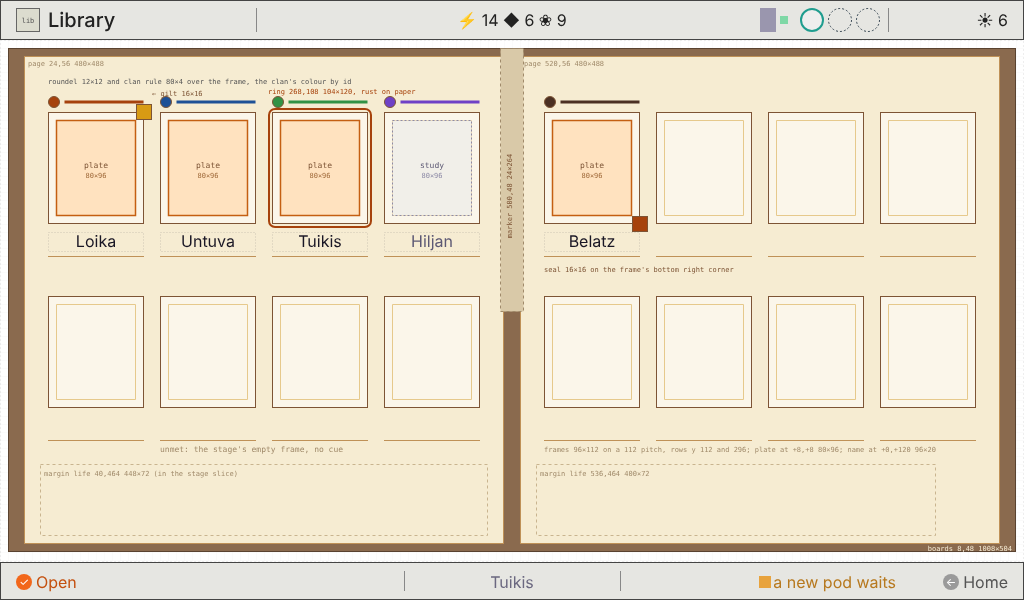
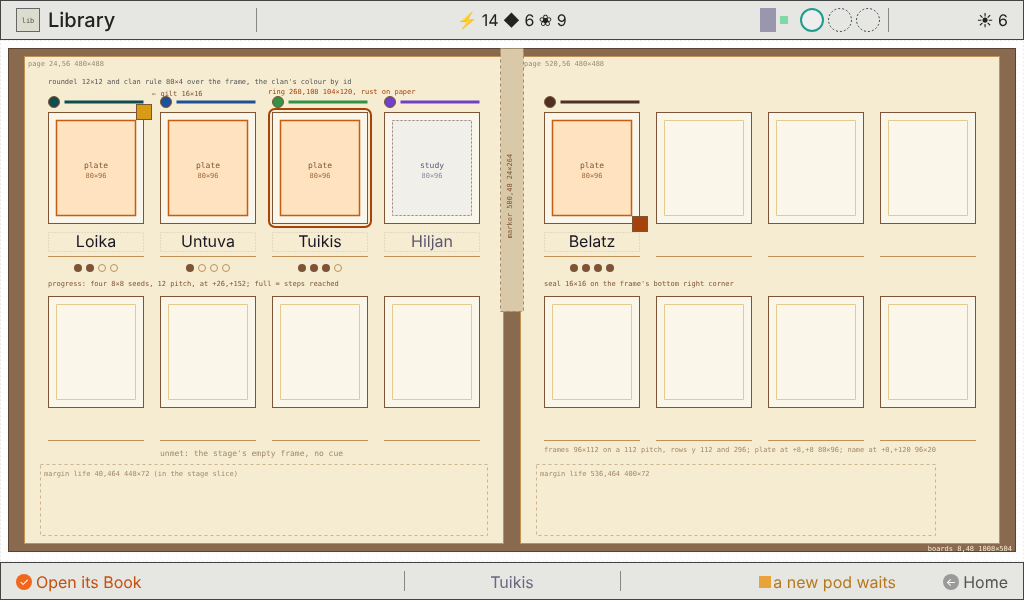
Library spread: C01 in tealD, the guide progress seeds, the signed words
C01's clan colour is tealD (the art director): no clan colour is the
ring's rust any more, and the clash note goes. Each found frame shows its
guide progress as four seeds under its caption, min(4, floor(4 x found /
(found + unseen)) + 1) of them full, at frame + (26, 152), 44x8; met and
unmet show none; complete keeps the seal. The copywriter's words: Open
its Book, {species}, only seen, Its Book needs its pod identified,
Nothing is known here yet. intents/library.mjs's change for met frames is
recorded in buildChanges. Wireframes 20 to 20b redrawn; metrics vectors
regenerated.

diff --git a/design/style-guide/station-layouts.md b/design/style-guide/station-layouts.md
@@ -2076,7 +2076,7 @@ The Library's whole, its overview level ([The screen map](#the-screen-map)): Hom
 
 <img src="station-layouts/20-library-spread.png" width="1024" alt="The Library spread: sixteen frames, four found, one met, eleven empty, the ring on Tuikis">
 
-*20. The spread: Loika found and portrayed (the gilt corner), Untuva and Tuikis found, Hiljan met (the study, the name in pencil grey), Belatz found with its guide complete (the seal), eleven empty frames; the ring on Tuikis, `✓ Open`. 1×, measured ([SVG](station-layouts/20-library-spread.svg)).*
+*20. The spread: Loika found and portrayed (the gilt corner, two seeds of four), Untuva found (one seed), Tuikis found (three seeds), Hiljan met (the study, the name in pencil grey, no seeds), Belatz found with its guide complete (four seeds and the seal), eleven empty frames; each known frame's clan rule and roundel in its clan's colour; the ring on Tuikis, `✓ Open its Book`. 1×, measured ([SVG](station-layouts/20-library-spread.svg)).*
 
 <img src="station-layouts/20a-library-spread-empty.png" width="1024" alt="The Library spread with the journal empty: sixteen empty frames, the ring on the first">
 
@@ -2102,6 +2102,7 @@ The spread shows the whole collection at a glance, as plates in the field journa
 | **Name** on the caption rule, 16 px | Found in `ink`, met in `stone` (pencil grey) |
 | **Clan rule** (a flat 4 px ink line) and the clan's **roundel** beside it, over a found or met frame | The clan, by the art director's colour for its id (C01 to C16), and by its roundel, so colour never carries the clan alone |
 | **Gilt corner** on a found frame | A mibi of this species sat for the Book's face |
+| **Progress**, four seeds under a found frame's caption | How much of the species' guide is found, in four coarse steps, as a picture, never a figure |
 | **Seal** on a found frame | Every look of the species found |
 
 **Not drawn:** a count or "1 of 2"; diagonal hatching for met (the study says it); a cue on an unmet frame; a clan's name; rules thicker than 1 px but the clan rule; the old "plate lifts and becomes the Book's face" (it would enlarge an 80×96 plate, [Never upscaled](#never-upscaled)).
@@ -2116,7 +2117,7 @@ The spread shows the whole collection at a glance, as plates in the field journa
 2. **Their names.**
 3. **The met studies** and their pencil names.
 4. **The empty frames**, a quiet grid.
-5. **The gilt corners and the seals**, small marks at the frames' corners.
+5. **The gilt corners, the progress seeds and the seals**, small marks at the frames' corners and under their captions.
 6. **The margins.**
 
 **At the edges:** the cloth marker over the gutter; the margin life under the second rows; the page-turn corner at the bottom right, its own sprite, only when a second spread exists (more than sixteen species), so never in slot L.
@@ -2150,12 +2151,13 @@ The volume fills the stage. Each page holds a 4 × 2 grid of frames, 96×112 on 
 | Clan rule | frame + (16, −12), 80×4 | rect in the clan's colour | y 100 and 284, 4 px after the roundel; found and met only |
 | Name | frame + (0, 120), 96×20 | text, 16 px, centred | y 232 and 416, on the caption rule at y 256 and 440 (the slice's). Widest today: Untuva, 53 px |
 | Gilt corner | frame + (88, −8), 16×16 | sprite `spread-gilt-corner-16x16` | Centred on the frame's top right corner; found and portrayed |
+| Progress | frame + (26, 152), 44×8 | four sprites, `spread-progress-full-8x8` or `spread-progress-empty-8x8`, 8×8 on a 12 pitch | y 264 and 448, centred on the frame, 8 px under the caption rule, 8 px over the next row's roundel and the margin life; found only |
 | Seal | frame + (88, 104), 16×16 | sprite `spread-seal-16x16` | Centred on the frame's bottom right corner; found and complete |
 | Focus | frame outset 4, radius 6: 104×120 | the ring | `rust` on paper; nothing lifts |
 | Page-turn corner | 968, 512, 24, 24 | sprite `book-corner-turn-24x24`, part of `spreadPage` | Its own region, never in the stage slice; only with a second spread |
-| Message plate | centred on x 512, bottom at y 550 | the frame's | 286×36 for "Nothing is known of this frame yet" |
+| Message plate | centred on x 512, bottom at y 550 | the frame's | 225×36 for "Nothing is known here yet" (193 px of text and 2 × 16 padding); 271×36 for "Its Book needs its pod identified" (239 px) |
 
-`spreadPage` is a composition, not a word: a `list` by `listPitch` whose items are the frame's parts above (three sprites, one rect, one text), each drawn only when its status gives it, plus the page-turn corner. The clan's colour comes from the frame's own clan id (`taxonomy.clan`) through the art director's table, `library.json` `spread.clanColours`; never from a pod pigment, which clans share. C01's colour is `rust`, the ring's colour on paper: reported to the art director, not changed here.
+`spreadPage` is a composition, not a word: a `list` by `listPitch` whose items are the frame's parts above (three sprites, four seed sprites, one rect, one text), each drawn only when its status gives it, plus the page-turn corner. The clan's colour comes from the frame's own clan id (`taxonomy.clan`) through the art director's table, `library.json` `spread.clanColours`; never from a pod pigment, which clans share. No clan colour is the ring's `rust` (C01 is `tealD`).
 
 ### 6. Interactions
 
@@ -2164,9 +2166,9 @@ The volume fills the stage. Each page holds a 4 × 2 grid of frames, 96×112 on 
 | Arrive | From Home's Library module or the Library key, the ring on the frame it was last on; a fresh world, on the first frame. From the Book's ←, the ring on that species |
 | ◀ ▶ | Along a row, across the gutter to the other page's same row; the outer edges stop, never a wrap |
 | ▲ ▼ | Between the page's two rows; the edges stop |
-| ✓ on a found frame | `✓ Open`, the context the species' name: a cut to its Book's face spread ("not built yet" until slot 8, with ← Library). The plate lifting into the Book's face is withdrawn: it would enlarge an 80×96 plate |
-| ✓ on a met frame | No ✓ cap; the context names it met; a press shows the met message plate and nothing opens |
-| ✓ on an unmet frame | No ✓ cap; the context "an empty frame"; a press shows the message plate "Nothing is known of this frame yet" and nothing opens |
+| ✓ on a found frame | `✓ Open its Book`, the context the species' name: a cut to its Book's face spread ("not built yet" until slot 8, with ← Library). The plate lifting into the Book's face is withdrawn: it would enlarge an 80×96 plate |
+| ✓ on a met frame | No ✓ cap; the context "{species}, only seen"; a press shows the message plate "Its Book needs its pod identified" and nothing opens |
+| ✓ on an unmet frame | No ✓ cap; the context "an empty frame"; a press shows the message plate "Nothing is known here yet" and nothing opens |
 | The notice | The frame's notice, as on every screen |
 | ← | Home, the ring on the Library module |
 
@@ -2174,23 +2176,23 @@ The volume fills the stage. Each page holds a 4 × 2 grid of frames, 96×112 on 
 
 **Events:** none of its own (`spread.events` is empty). ✓ on a found frame is a cut to the Book (`spread.keys.confirm`); ← from the Book is a cut back with the ring on that species (`spread.keys.library`); the screen change is the host's, as everywhere.
 
-**Bound to the rules:** the frames are `spread(st, ids)` over `frameIds()`, sixteen to a spread; the status is `speciesStatus`; the gilt corner is any delivered portrait of a mibi of the species, released or not (`book(st, id).faceChoices` not empty), whether or not it was made the face; the seal is `fieldGuide(st, id).complete`; the ring's frame is the Library's UI state (`ui.lib.i`, `intents/library.mjs`). Nothing is new state.
+**Bound to the rules:** the frames are `spread(st, ids)` over `frameIds()`, sixteen to a spread; the status is `speciesStatus`; the gilt corner is any delivered portrait of a mibi of the species, released or not (`book(st, id).faceChoices` not empty), whether or not it was made the face; the seal is `fieldGuide(st, id).complete`; the progress is `min(4, floor(4 × found / (found + unseen)) + 1)` of `fieldGuide(st, id)`: under a quarter one seed, then two, three, and four from three quarters (complete shows four and the seal); the item's props are `{ id, status, name, clan, portrayed, complete, progress }`; the ring's frame is the Library's UI state (`ui.lib.i`, `intents/library.mjs`). Nothing is new state.
 
 Where the build changes what the sandbox reads today (`frame.json` `navigation.screens.library` gains its states and spec) is listed in `library.json` `spread.buildChanges`, and lands with slot 5's build.
 
 ### Words on the spread
 
-The copywriter's slots (`spread.strings`); today's words come from this section's earlier version and from `intents/library.mjs`; the two met slots are stand-ins until the copywriter words them.
+The copywriter's slots (`spread.strings`), signed by the copywriter.
 
 | Slot | Rule | Today |
 | --- | --- | --- |
 | Title | One word | "Library" |
-| Action on a found frame | A verb phrase, four words or fewer | "Open" |
+| Action on a found frame | A verb phrase, four words or fewer | "Open its Book" |
 | Context, found | Six words or fewer, no digits | "{species}" |
-| Context, met | Six words or fewer, no digits; tells met from found in words | "{species}, met" (stand-in) |
+| Context, met | Six words or fewer, no digits; tells met from found in words | "{species}, only seen" (the widest, "Untuva, only seen", 132 px) |
 | Context, unmet | Six words or fewer, no digits | "an empty frame" |
-| Plate on a met frame | One sentence, at most 640 px | "Not found yet, only met" (stand-in) |
-| Plate on an unmet frame | One sentence | "Nothing is known of this frame yet" |
+| Plate on a met frame | One sentence, at most 608 px of text | "Its Book needs its pod identified" |
+| Plate on an unmet frame | One sentence | "Nothing is known here yet" |
 | Way back | One word | "Home" |
 
 ### Masters for the spread
@@ -2204,13 +2206,13 @@ Placed 1:1 at these sizes, never scaled or recoloured; the art director signs th
 | `spread-study-<SNN>-80x96` | 80×96 | Sixteen: the met pencil study | The index pass in `stone` line on `paper` |
 | `spread-gilt-corner-16x16` | 16×16 | The portrayed species' gilt corner | A `gold` L, 4 px |
 | `clan-roundel-<Cnn>-12x12` | 12×12 | Sixteen: the clan's roundel beside its rule, in the clan's colour | A disc in the clan's colour, edged `bark` |
+| `spread-progress-full-8x8`, `spread-progress-empty-8x8` | 8×8 | A step of the guide reached (a pressed seed, inked) and not yet (the seed in outline); the form is the UI designer's, the art director confirms it | An 8×8 `bark` disc; an 8×8 `clay` outline |
 | `spread-seal-16x16` | 16×16 | A complete guide, kin to `guide-seal-32` | A `rust` disc edged `bark` |
 
 ### Not designed yet
 
 - **A second spread** (more than sixteen species): the page-turn corner's region is set (968, 512, 24, 24); ▶ past the right page's last column and ◀ past the left page's first are not. `frameIds()` holds sixteen today.
 - **A name wider than 96 px** at 16: none today (Untuva, 53, is the widest).
-- **The words for met**: the context and the plate are stand-ins for the copywriter.
 - **The Book's entry from a frame**: a cut until slot 8 designs it.
 - **What a newly found species shows** on the spread the first time (a mark, a moment): the save holds no unopened page, as on Home's Library module.
 
